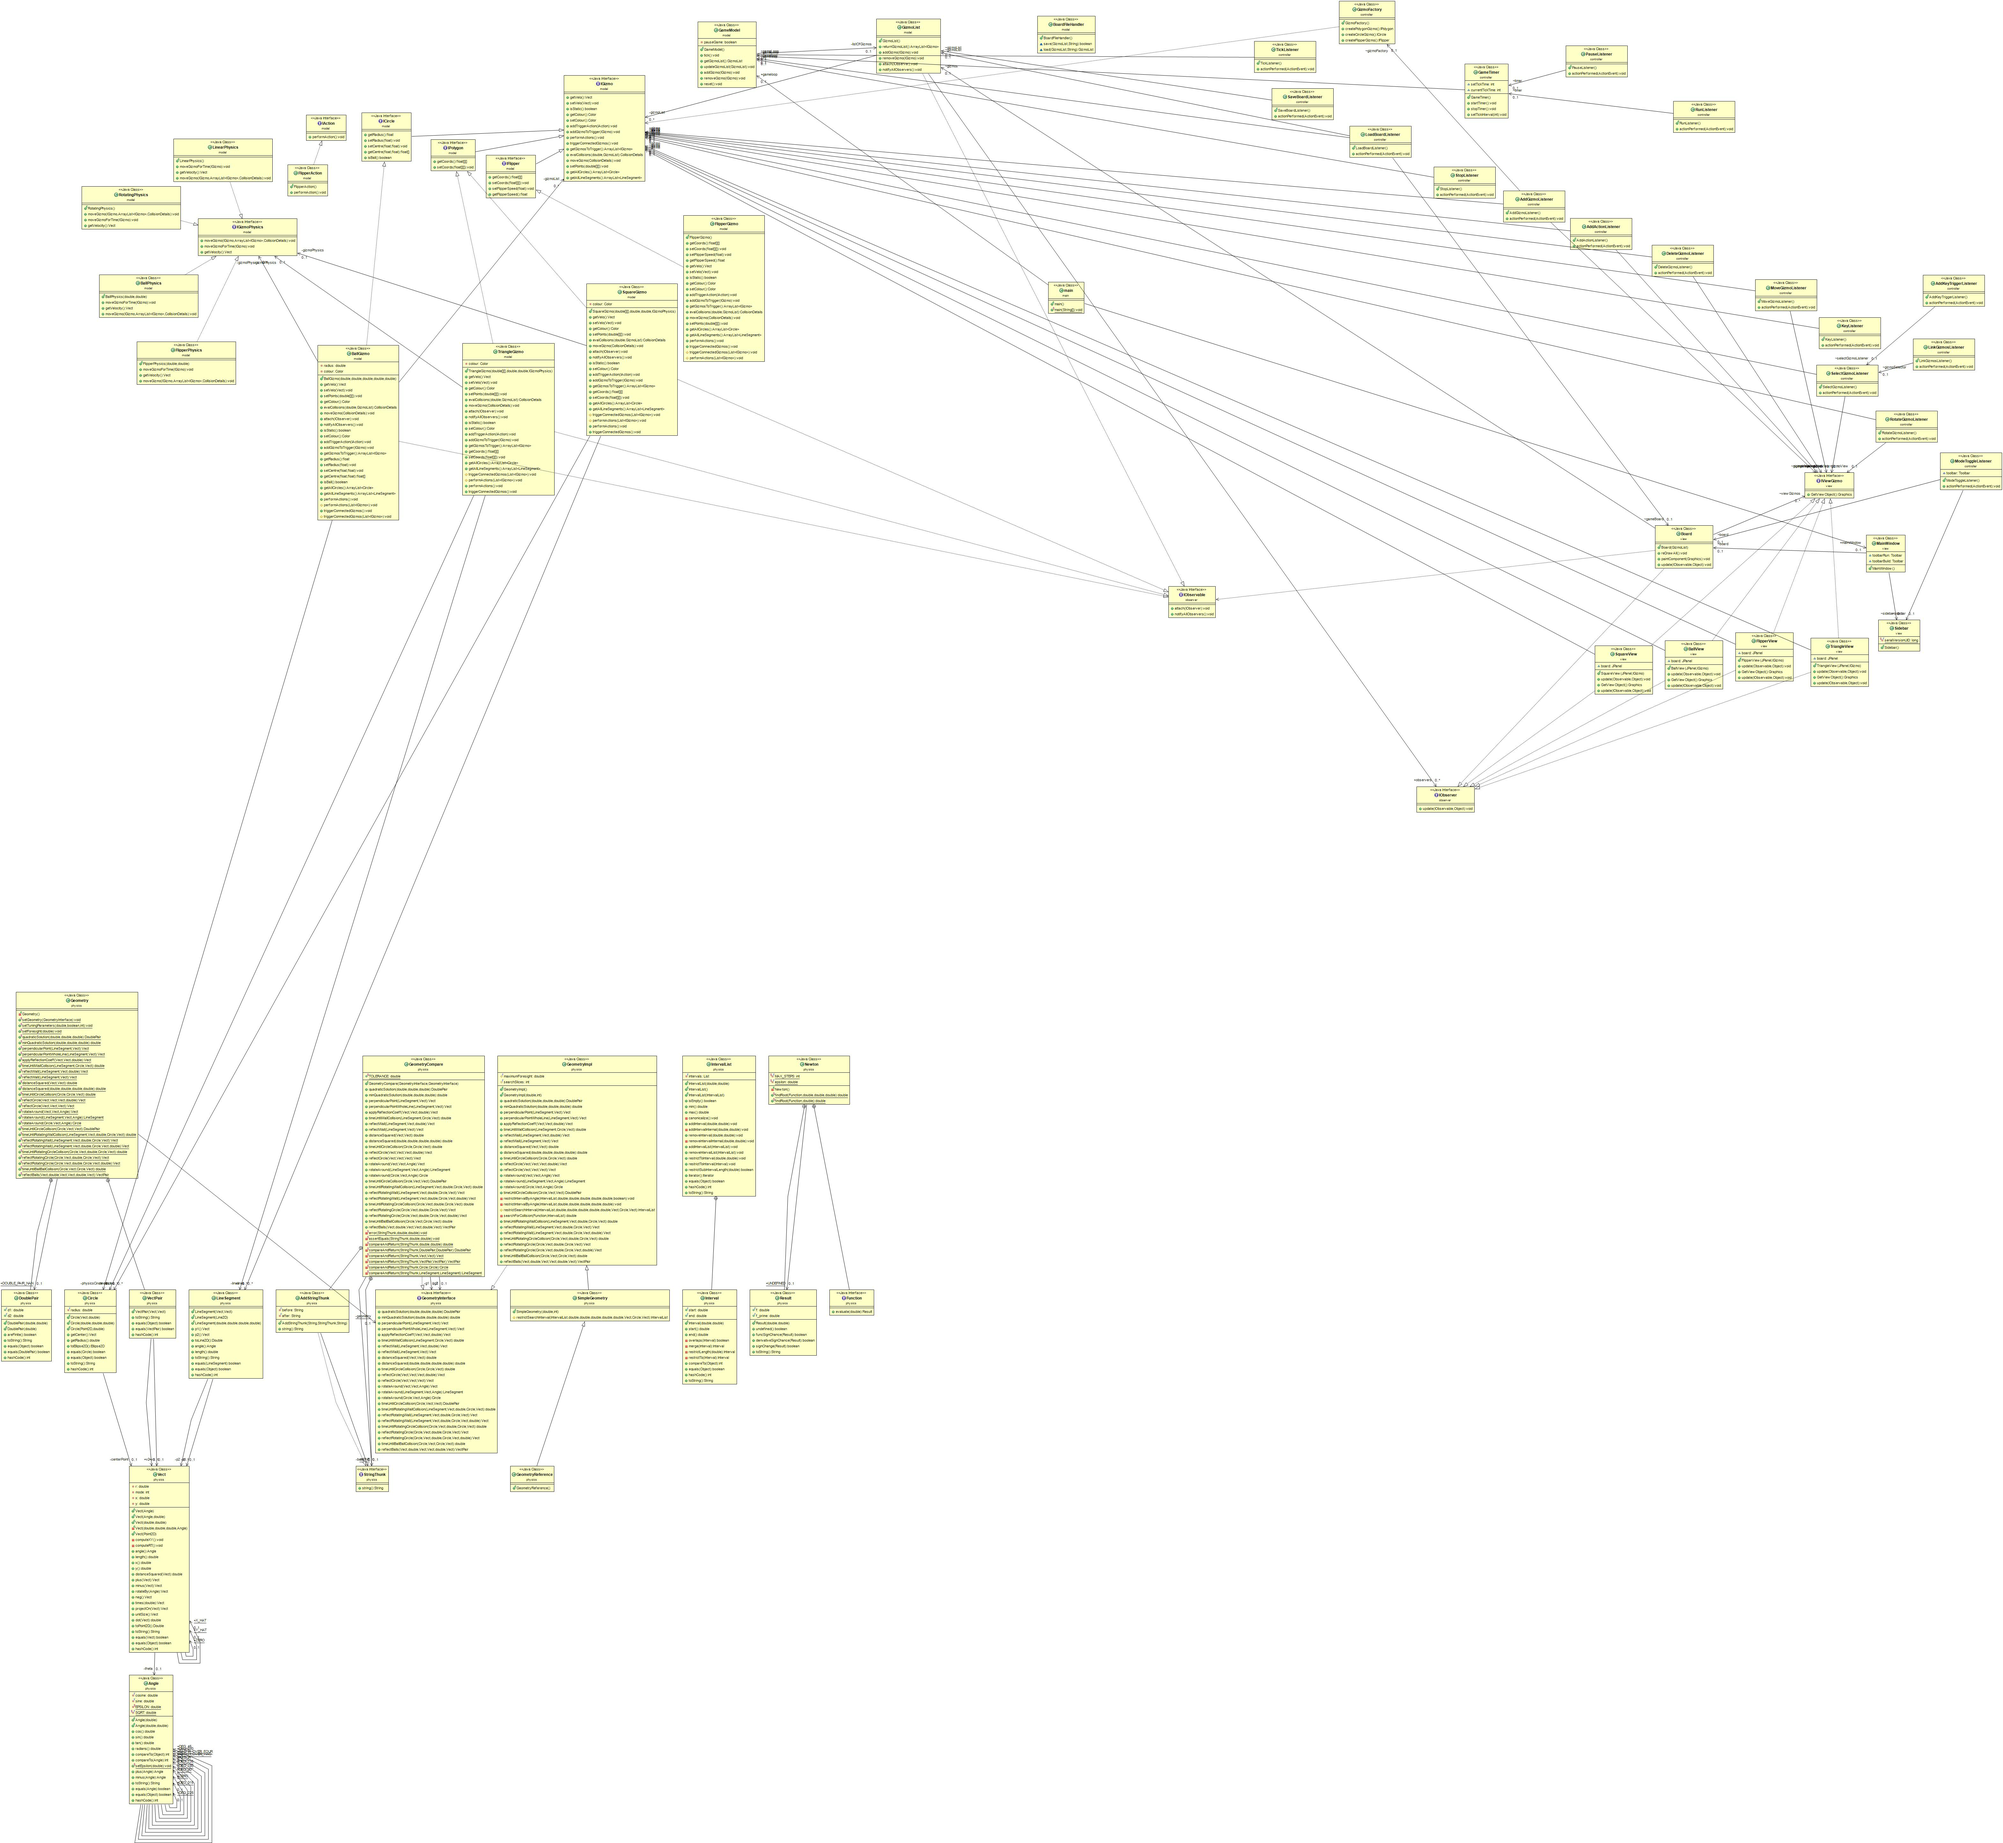
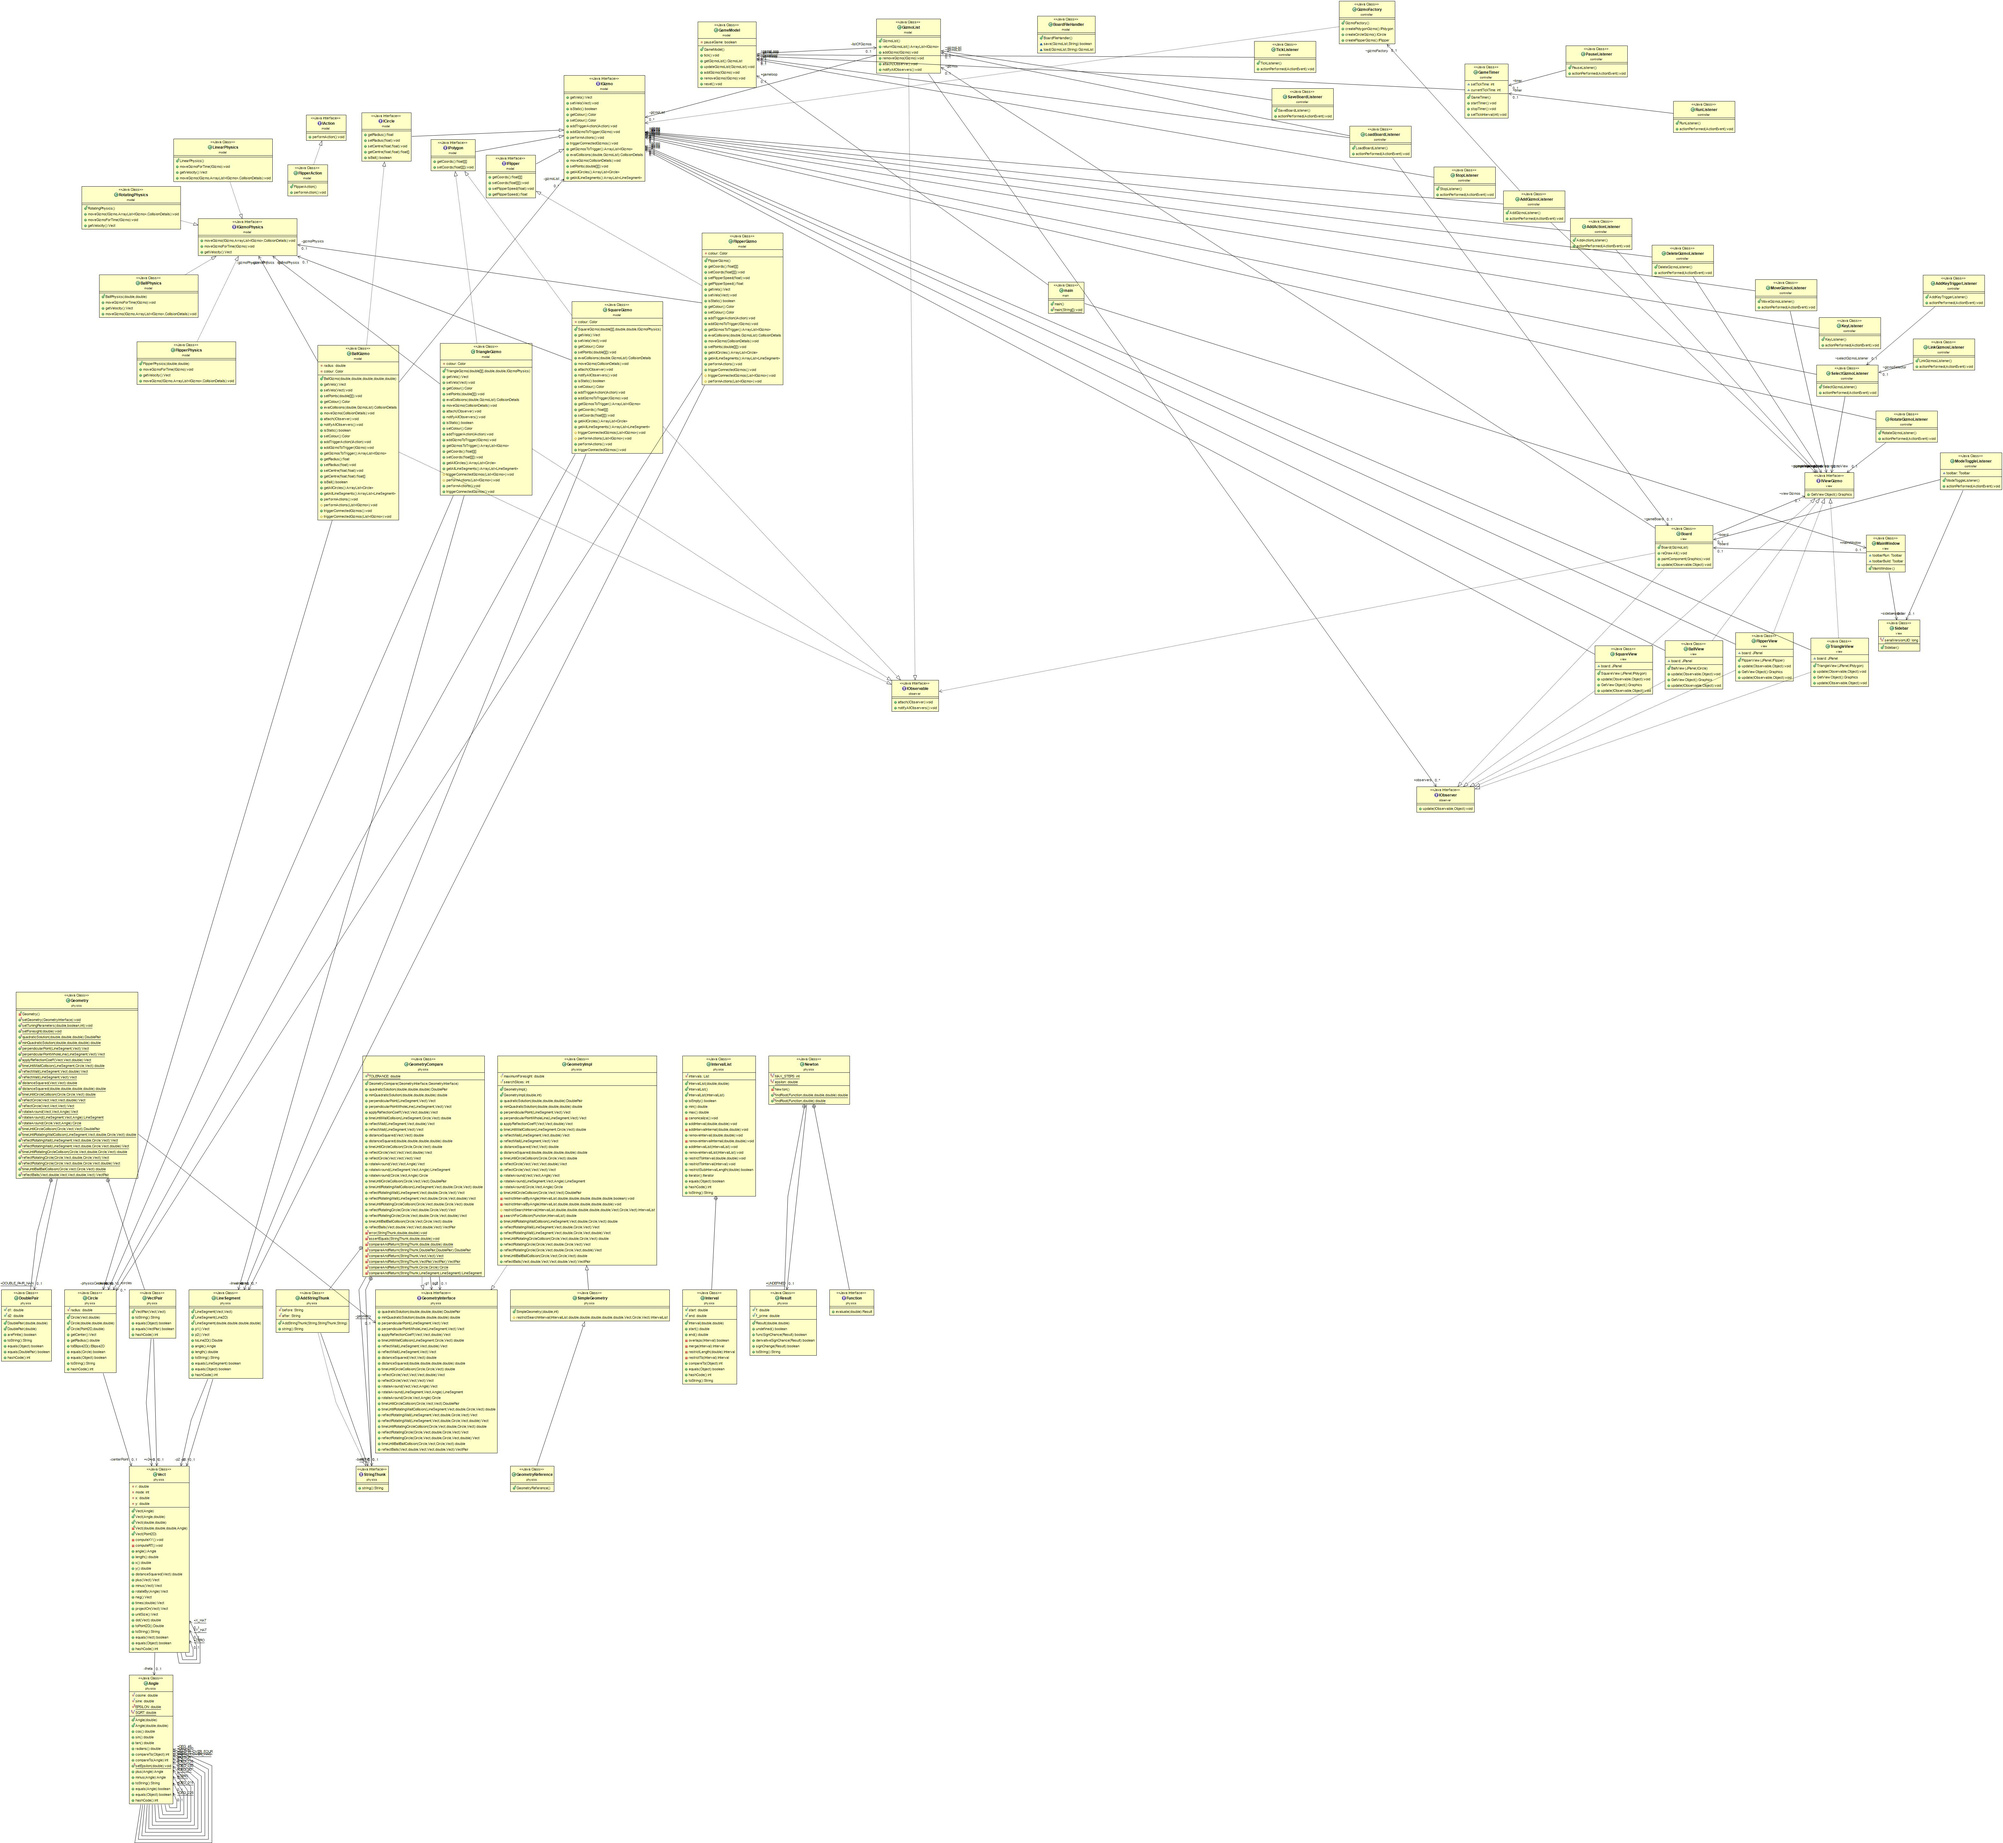
First Draft of UML completed. Please provide feedback to me before submission

Changed region(s): [[0.2184, 0.0935, 0.4057, 0.2804], [0.5617, 0.3115, 0.6241, 0.3427], [0.4369, 0.3427, 0.4681, 0.405]]

diff --git a/src/model/FlipperGizmo.java b/src/model/FlipperGizmo.java
@@ -9,7 +9,10 @@ import physics.LineSegment;
 import physics.Vect;
 
 public class FlipperGizmo implements IFlipper{
-
+	private Color colour;
+	private IGizmoPhysics gizmoPhysics;
+	private ArrayList<LineSegment> lines;
+	private ArrayList<Circle> circles;
 	@Override
 	public float[][] getCoords() {
 		// TODO Auto-generated method stub
